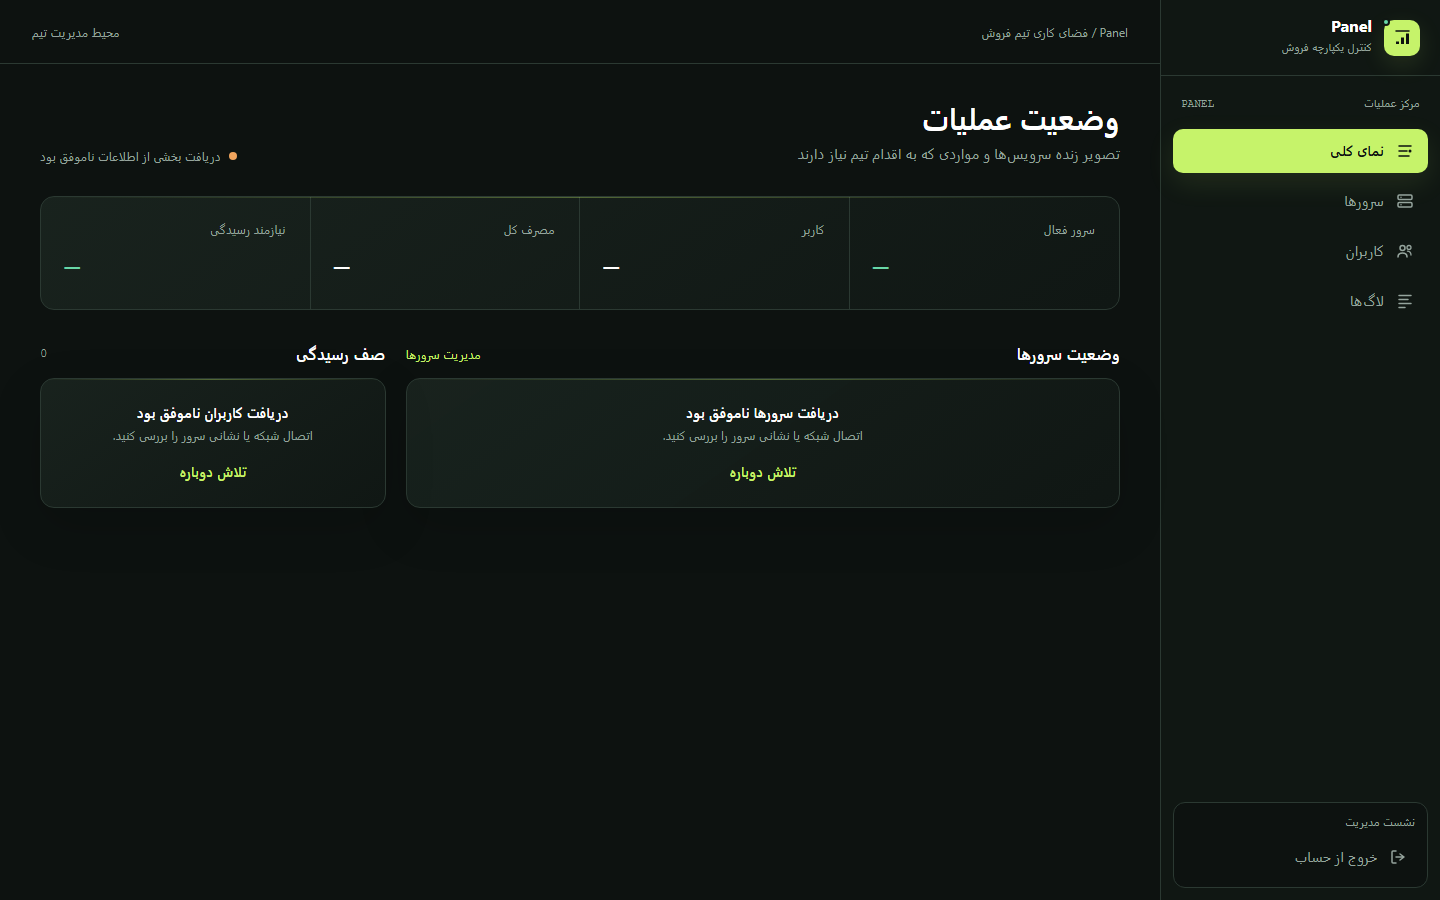
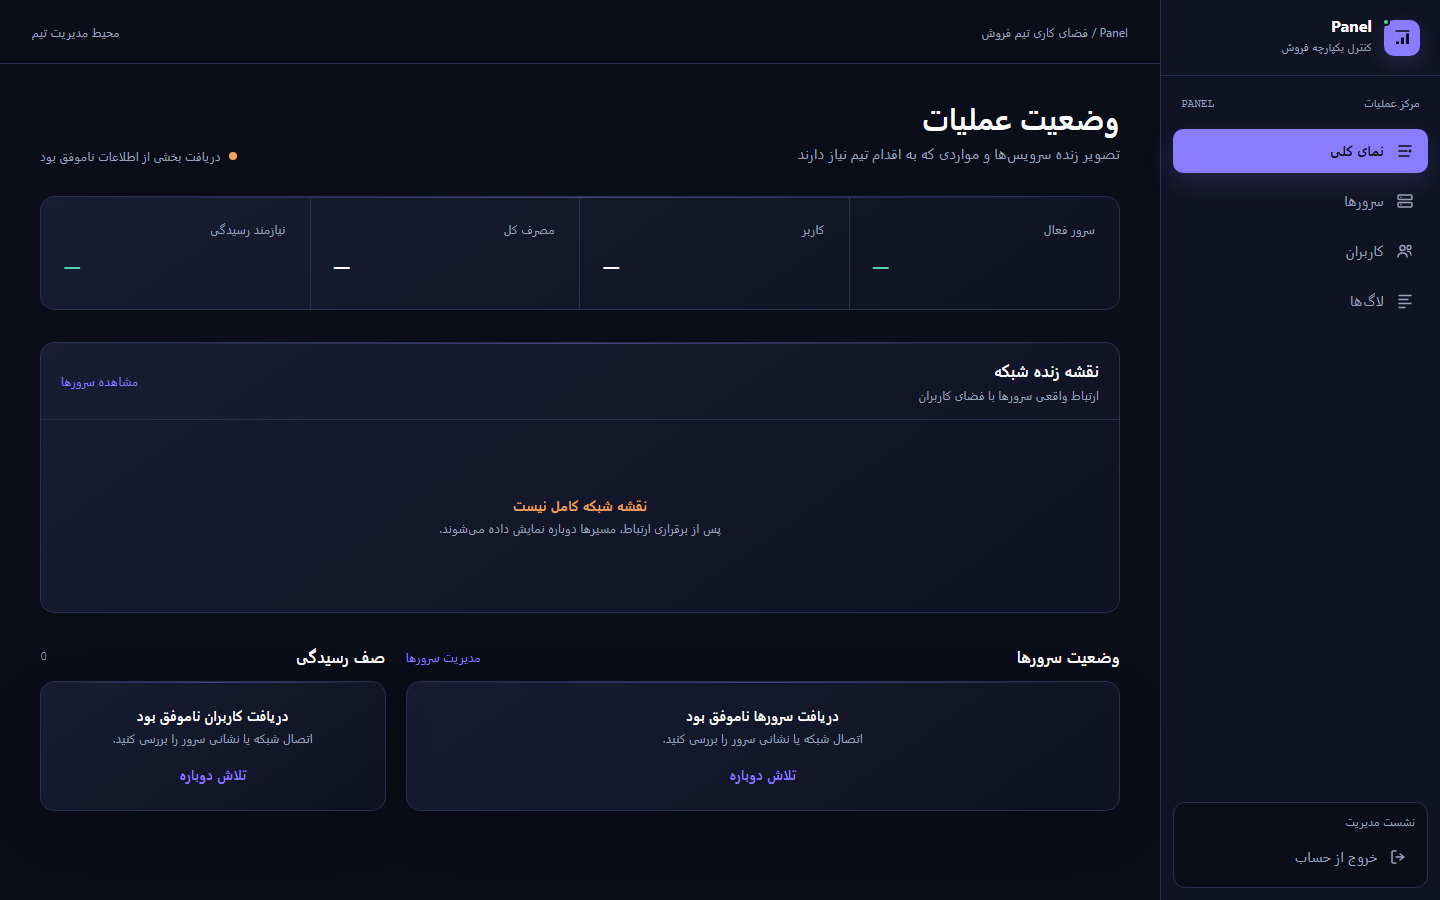
Polish dashboard motion and network telemetry

diff --git a/frontend/src/pages/Overview.tsx b/frontend/src/pages/Overview.tsx
@@ -49,6 +49,8 @@ export default function Overview() {
       </div>
     </section>
 
+    <NetworkPulse servers={servers} users={users} failed={serverError || userError} />
+
     <div className="grid lg:grid-cols-[minmax(0,1.55fr)_minmax(19rem,.75fr)] gap-5 items-start">
       <section>
         <div className="flex items-center justify-between mb-3"><h2 className="font-semibold">وضعیت سرورها</h2><Link to="/servers" className="text-xs text-signal hover:underline">مدیریت سرورها</Link></div>
@@ -75,4 +77,41 @@ function Metric({ label, value, tone = "default" }: { label: string; value: stri
   return <div className="p-5 sm:p-6 min-h-[112px] flex flex-col justify-between"><p className="text-xs text-muted">{label}</p>{value === null ? <Skeleton className="h-7 w-20" /> : <p className={`font-nums text-2xl font-semibold tracking-[-.03em] ${tone === "mint" ? "text-mint" : tone === "warn" ? "text-warn" : "text-white"}`}>{value}</p>}</div>;
 }
 function ErrorRegion({ resource, onRetry }: { resource: string; onRetry: () => void }) { return <div role="alert" className="p-6 text-center"><p className="text-sm font-medium">دریافت {resource} ناموفق بود</p><p className="text-xs text-muted mt-1 mb-4">اتصال شبکه یا نشانی سرور را بررسی کنید.</p><button onClick={onRetry} className="text-sm font-semibold text-signal hover:underline">تلاش دوباره</button></div>; }
+
+function NetworkPulse({ servers, users, failed }: { servers: any[] | null; users: any[] | null; failed: boolean }) {
+  const visibleServers = servers?.slice(0, 6) ?? [];
+  const positions = [
+    { x: 112, y: 66 }, { x: 360, y: 34 }, { x: 608, y: 66 },
+    { x: 608, y: 194 }, { x: 360, y: 226 }, { x: 112, y: 194 },
+  ];
+
+  return <section className="network-pulse ops-surface border border-line rounded-[14px] overflow-hidden" aria-labelledby="network-pulse-title">
+    <div className="flex items-center justify-between gap-4 px-4 sm:px-5 py-4 border-b border-line">
+      <div><h2 id="network-pulse-title" className="font-semibold">نقشه زنده شبکه</h2><p className="text-xs text-muted mt-1">ارتباط واقعی سرورها با فضای کاربران</p></div>
+      <Link to="/servers" className="text-xs text-signal hover:underline shrink-0">مشاهده سرورها</Link>
+    </div>
+    {failed ? <div className="h-48 grid place-items-center text-center px-5"><div><p className="text-sm font-medium text-warn">نقشه شبکه کامل نیست</p><p className="text-xs text-muted mt-1">پس از برقراری ارتباط، مسیرها دوباره نمایش داده میشوند.</p></div></div> : servers === null || users === null ? <LoadingRegion label="در حال ترسیم نقشه شبکه" className="h-48 sm:h-64 grid place-items-center"><div className="network-loader" aria-hidden="true"><span /><span /><span /></div></LoadingRegion> : visibleServers.length === 0 ? <div className="h-48 grid place-items-center text-center px-5"><div><p className="text-sm font-medium">شبکه هنوز نقطهای ندارد</p><p className="text-xs text-muted mt-1 mb-3">اولین سرور را اضافه کنید تا نقشه عملیاتی شکل بگیرد.</p><Link to="/servers" className="text-sm text-signal hover:underline">افزودن سرور</Link></div></div> :
+      <div className="relative px-2 py-2 sm:px-5 sm:py-3" dir="ltr">
+        <svg className="w-full h-auto min-h-[190px] max-h-[270px]" viewBox="0 0 720 260" role="img" aria-label={`${visibleServers.length} سرور و ${users.length} کاربر در نقشه شبکه`}>
+          <defs><filter id="pulse-glow" x="-50%" y="-50%" width="200%" height="200%"><feGaussianBlur stdDeviation="4" result="blur"/><feMerge><feMergeNode in="blur"/><feMergeNode in="SourceGraphic"/></feMerge></filter></defs>
+          {visibleServers.map((server, index) => {
+            const point = positions[index];
+            const healthy = server.status === "ACTIVE";
+            return <g key={server.id}>
+              <line className={`network-link ${healthy ? "is-healthy" : "is-offline"}`} x1="360" y1="130" x2={point.x} y2={point.y} style={{ animationDelay: `${index * 55}ms` }} />
+              <circle className={`network-node ${healthy ? "is-healthy" : "is-offline"}`} cx={point.x} cy={point.y} r="17" />
+              <circle className="network-node-core" cx={point.x} cy={point.y} r="5" />
+              <text className="network-label" x={point.x} y={point.y + (point.y < 130 ? -25 : 32)} textAnchor="middle">{server.name}</text>
+              <text className="network-count" x={point.x} y={point.y + 4} textAnchor="middle">{server._count?.links ?? 0}</text>
+            </g>;
+          })}
+          <circle className="network-hub-ring" cx="360" cy="130" r="48" />
+          <circle className="network-hub" cx="360" cy="130" r="35" filter="url(#pulse-glow)" />
+          <text className="network-hub-value" x="360" y="127" textAnchor="middle">{users.length}</text>
+          <text className="network-hub-label" x="360" y="145" textAnchor="middle">USERS</text>
+        </svg>
+      </div>}
+  </section>;
+}
+
 function isExpiredUser(user: any) { return user.status === "EXPIRED" || (user.expireAt && new Date(user.expireAt).getTime() < Date.now()); }

diff --git a/frontend/src/index.css b/frontend/src/index.css
@@ -12,6 +12,12 @@ html, body {
 html { color-scheme: dark; }
 body { margin: 0; }
 
+:root {
+  --ease-out: cubic-bezier(0.23, 1, 0.32, 1);
+  --ease-in-out: cubic-bezier(0.77, 0, 0.175, 1);
+  --ease-drawer: cubic-bezier(0.32, 0.72, 0, 1);
+}
+
 body::before {
   content: "";
   position: fixed;
@@ -59,11 +65,49 @@ input, select, button { caret-color: #A99FFF; }
   pointer-events: none;
 }
 
-.page-enter { animation: page-resolve .42s cubic-bezier(.16,1,.3,1) both; }
+.page-enter { animation: page-resolve 260ms var(--ease-out) both; }
 @keyframes page-resolve {
-  from { opacity: .6; filter: blur(5px); transform: translateY(7px); }
+  from { opacity: .72; filter: blur(3px); transform: translateY(6px); clip-path: inset(0 0 10px 0); }
   to { opacity: 1; filter: blur(0); transform: translateY(0); }
 }
+
+.network-pulse { isolation: isolate; }
+.network-link {
+  fill: none;
+  stroke: #8B7CFF;
+  stroke-width: 1.5;
+  stroke-dasharray: 5 7;
+  stroke-dashoffset: 0;
+  opacity: .58;
+  animation: network-resolve 700ms var(--ease-out) both;
+}
+.network-link.is-offline { stroke: #F27368; opacity: .48; }
+.network-node { fill: #151A30; stroke-width: 2; }
+.network-node.is-healthy { stroke: #52D3B0; }
+.network-node.is-offline { stroke: #F27368; }
+.network-node-core { fill: rgba(139, 124, 255, .22); }
+.network-label { fill: #9AA3BD; font: 500 11px 'Vazirmatn', system-ui, sans-serif; }
+.network-count { fill: #F1F4EF; font: 700 10px 'JetBrains Mono', ui-monospace, monospace; }
+.network-hub-ring {
+  fill: none;
+  stroke: rgba(139, 124, 255, .28);
+  stroke-width: 1;
+  transform-origin: 360px 130px;
+  animation: hub-resolve 700ms var(--ease-out) both;
+}
+.network-hub { fill: #8B7CFF; stroke: #A99FFF; stroke-width: 1; }
+.network-hub-value { fill: #0B0E19; font: 700 18px 'JetBrains Mono', ui-monospace, monospace; }
+.network-hub-label { fill: #222044; font: 600 8px 'JetBrains Mono', ui-monospace, monospace; letter-spacing: .12em; }
+@keyframes network-resolve { from { stroke-dashoffset: 34; opacity: .12; } }
+@keyframes hub-resolve { from { opacity: 0; transform: scale(.9); } }
+
+.network-loader { position: relative; width: 72px; height: 72px; }
+.network-loader span { position: absolute; inset: 50%; width: 8px; height: 8px; margin: -4px; border-radius: 50%; background: #8B7CFF; }
+.network-loader span:nth-child(1) { transform: translateX(30px); }
+.network-loader span:nth-child(2) { transform: rotate(120deg) translateX(30px); }
+.network-loader span:nth-child(3) { transform: rotate(240deg) translateX(30px); }
+.network-loader::after { content: ""; position: absolute; inset: 12px; border: 1px dashed rgba(139,124,255,.45); border-radius: 50%; animation: network-spin 1.8s linear infinite; }
+@keyframes network-spin { to { transform: rotate(360deg); } }
 
 .skeleton {
   position: relative;
@@ -88,10 +132,28 @@ input, select, button { caret-color: #A99FFF; }
   from { opacity: 0; transform: translateY(8px); }
   to { opacity: 1; transform: translateY(0); }
 }
-.animate-toast-in { animation: toast-in .18s ease-out; }
+.animate-toast-in { animation: toast-in 180ms var(--ease-out); }
 
 @keyframes sheet-in {
   from { transform: translateY(100%); opacity: .6; }
   to { transform: translateY(0); opacity: 1; }
 }
-.animate-sheet-in { animation: sheet-in .22s ease-out; }
+.animate-sheet-in { animation: sheet-in 240ms var(--ease-drawer); }
+
+@media (hover: hover) and (pointer: fine) {
+  .network-pulse:hover .network-hub { filter: brightness(1.08); }
+}
+
+@media (max-width: 480px) {
+  .network-label { font-size: 9px; }
+}
+
+@media (prefers-reduced-motion: reduce) {
+  .network-link, .network-hub-ring { animation: none; }
+  .network-loader::after { animation: none; border-style: solid; }
+  .animate-toast-in { animation: toast-fade 160ms ease; }
+  .animate-sheet-in { animation: sheet-fade 180ms ease; }
+}
+
+@keyframes toast-fade { from { opacity: .65; } to { opacity: 1; } }
+@keyframes sheet-fade { from { opacity: .7; } to { opacity: 1; } }

diff --git a/frontend/src/components/Layout.tsx b/frontend/src/components/Layout.tsx
@@ -24,7 +24,7 @@ export default function Layout({ children }: { children: React.ReactNode }) {
         <nav className="flex-1 px-3 py-2 space-y-1.5">
           {nav.map((item) => (
             <NavLink key={item.to} to={item.to} end={item.to === "/"} className={({ isActive }) =>
-              `group flex items-center gap-3 px-3.5 py-3 rounded-[10px] text-sm transition-all ${isActive ? "bg-signal text-ink font-semibold shadow-[0_10px_28px_rgba(139,124,255,.18)]" : "text-muted hover:text-white hover:bg-panel2"}`
+              `group flex items-center gap-3 px-3.5 py-3 rounded-[10px] text-sm transition-[background-color,color,box-shadow] duration-150 ${isActive ? "bg-signal text-ink font-semibold shadow-[0_10px_28px_rgba(139,124,255,.18)]" : "text-muted hover:text-white hover:bg-panel2"}`
             }>
               <item.icon />{item.label}
             </NavLink>
@@ -32,7 +32,7 @@ export default function Layout({ children }: { children: React.ReactNode }) {
         </nav>
         <div className="mx-3 mb-3 px-3 py-3 border border-line rounded-[12px] bg-[#0B0E19]">
           <p className="text-[11px] text-muted mb-2">نشست مدیریت</p>
-          <button onClick={logout} className="w-full flex items-center gap-3 px-2 py-2 rounded-lg text-sm text-muted hover:text-danger hover:bg-danger/10 transition-colors">
+          <button onClick={logout} className="w-full flex items-center gap-3 px-2 py-2 rounded-lg text-sm text-muted hover:text-danger hover:bg-danger/10 transition-colors duration-150">
             <LogoutIcon />خروج از حساب
           </button>
         </div>
@@ -41,7 +41,7 @@ export default function Layout({ children }: { children: React.ReactNode }) {
       <header className="md:hidden fixed top-0 inset-x-0 z-40 bg-[#101322]/95 backdrop-blur-md border-b border-line" style={{ paddingTop: "env(safe-area-inset-top)" }}>
         <div className="h-14 flex items-center justify-between px-4">
           <BrandCompact />
-          <button onClick={logout} aria-label="خروج از حساب" className="h-10 w-10 flex items-center justify-center rounded-lg text-muted hover:text-danger hover:bg-danger/10 active:scale-95 transition"><LogoutIcon /></button>
+          <button onClick={logout} aria-label="خروج از حساب" className="h-10 w-10 flex items-center justify-center rounded-lg text-muted hover:text-danger hover:bg-danger/10 active:scale-95 transition-[background-color,color,transform] duration-150"><LogoutIcon /></button>
         </div>
       </header>
 
@@ -55,8 +55,8 @@ export default function Layout({ children }: { children: React.ReactNode }) {
 
       <nav className="md:hidden fixed bottom-0 inset-x-0 z-40 bg-[#101322]/95 backdrop-blur-md border-t border-line flex" style={{ paddingBottom: "env(safe-area-inset-bottom)" }}>
         {nav.map((item) => (
-          <NavLink key={item.to} to={item.to} end={item.to === "/"} className={({ isActive }) => `flex-1 flex flex-col items-center gap-1 min-h-[60px] justify-center text-[11px] transition-colors ${isActive ? "text-signal" : "text-muted"}`}>
-            {({ isActive }) => <><span className={`flex items-center justify-center rounded-full px-3 py-0.5 transition-colors ${isActive ? "bg-signal/10" : ""}`}><item.icon /></span>{item.label}</>}
+          <NavLink key={item.to} to={item.to} end={item.to === "/"} className={({ isActive }) => `flex-1 flex flex-col items-center gap-1 min-h-[60px] justify-center text-[11px] transition-colors duration-150 ${isActive ? "text-signal" : "text-muted"}`}>
+            {({ isActive }) => <><span className={`flex items-center justify-center rounded-full px-3 py-0.5 transition-colors duration-150 ${isActive ? "bg-signal/10" : ""}`}><item.icon /></span>{item.label}</>}
           </NavLink>
         ))}
       </nav>

diff --git a/frontend/src/components/ui.tsx b/frontend/src/components/ui.tsx
@@ -56,7 +56,7 @@ export function Input(props: React.InputHTMLAttributes<HTMLInputElement>) {
     <input
       {...props}
       // text-[16px] on mobile prevents iOS from auto-zooming on focus
-      className={`w-full bg-[#0E1222] border border-line rounded-[10px] px-3.5 py-2.5 text-[16px] sm:text-sm text-white placeholder:text-muted focus:outline-none focus:border-signal focus:ring-2 focus:ring-signal/20 transition ${props.className ?? ""}`}
+      className={`w-full bg-[#0E1222] border border-line rounded-[10px] px-3.5 py-2.5 text-[16px] sm:text-sm text-white placeholder:text-muted focus:outline-none focus:border-signal focus:ring-2 focus:ring-signal/20 transition-[border-color,box-shadow] duration-150 ${props.className ?? ""}`}
     />
   );
 }
@@ -65,7 +65,7 @@ export function Select(props: React.SelectHTMLAttributes<HTMLSelectElement>) {
   return (
     <select
       {...props}
-      className={`w-full bg-[#0E1222] border border-line rounded-[10px] px-3.5 py-2.5 text-[16px] sm:text-sm text-white focus:outline-none focus:border-signal focus:ring-2 focus:ring-signal/20 transition ${props.className ?? ""}`}
+      className={`w-full bg-[#0E1222] border border-line rounded-[10px] px-3.5 py-2.5 text-[16px] sm:text-sm text-white focus:outline-none focus:border-signal focus:ring-2 focus:ring-signal/20 transition-[border-color,box-shadow] duration-150 ${props.className ?? ""}`}
     />
   );
 }

diff --git a/DESIGN.md b/DESIGN.md
@@ -111,7 +111,7 @@ The system is code-led and deliberately avoids an AI-created feel. Repeated prim
 - Matte green-black instrument surfaces with fine structural seams.
 - Exception-first operational hierarchy and compact, scannable density.
 - Persian RTL prose paired with isolated LTR monospaced numerics.
-- Lime action/state emphasis supported by semantic health, warning, and danger tones.
+- Violet action emphasis supported by semantic health, warning, and danger tones.
 - Restrained ambient depth and a short page-resolve motion on navigation.
 
 ## Colors
@@ -226,7 +226,7 @@ The form language is precise but not severe. Controls use a consistent 10px corn
 
 ### Navigation
 
-Desktop navigation occupies the fixed right rail with icon-and-label rows. The active route becomes a solid Signal Violet instrument tab; inactive routes remain muted and lift tonally on hover. Mobile uses fixed top and bottom bars with translucent rack surfaces, backdrop blur, safe-area padding, and an active lime icon/label treatment rather than a filled tab.
+Desktop navigation occupies the fixed right rail with icon-and-label rows. The active route becomes a solid Signal Violet instrument tab; inactive routes remain muted and lift tonally on hover. Mobile uses fixed top and bottom bars with translucent rack surfaces, backdrop blur, safe-area padding, and an active violet icon/label treatment rather than a filled tab.
 
 ### Signal Gauge
 
@@ -238,7 +238,7 @@ Skeletons use a Raised Instrument base with a narrow traveling violet signal. Lo
 
 ### Motion
 
-Route content resolves over 420ms with a 7px rise, blur reduction, and `cubic-bezier(.16,1,.3,1)`. Toasts enter in 180ms and mobile sheets in 220ms. Reduced-motion preference disables the page and skeleton animations.
+Route content resolves over 260ms with a 7px rise, blur reduction, and `cubic-bezier(.23,1,.32,1)`. Toasts enter in 180ms and mobile sheets in 240ms. The Overview network topology is the single authored focal moment: real server and user counts resolve through a 700ms line-and-node sequence, while its loader turns slowly at 1.8s. Frequent navigation, fields, and row interactions stay at 150ms and animate only color, border, shadow, opacity, or transform. Reduced-motion preference removes spatial movement and replaces transient entrances with short opacity fades.
 
 ## Do's and Don'ts
 
